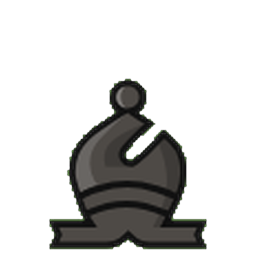
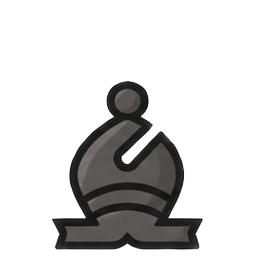
Soft pieces: sharper version from Dede's high-res image
Claude-Session: https://claude.ai/code/session_01GrAMtGcWzd7YwtEJJXTaDz

Changed region(s): [[0.1875, 0.3125, 0.8125, 1.0]]

diff --git a/board-theme.js b/board-theme.js
@@ -6,7 +6,7 @@
  */
 (() => {
   'use strict';
-  const KEY = 'chesslab.boardTheme', PKEY = 'chesslab.pieceSet', V = 11;
+  const KEY = 'chesslab.boardTheme', PKEY = 'chesslab.pieceSet', V = 13;
   const BASE = new URL('chess-lab/pieces/', document.currentScript ? document.currentScript.src : location.href).href;
   const THEMES = [
     { id: 'classic', name: 'Classic Green', l: '#eed5a4', d: '#355a31' },

diff --git a/chess-lab/index.html b/chess-lab/index.html
@@ -3,7 +3,7 @@
 <head>
   <meta charset="utf-8">
   <script src="../sync.js"></script>
-  <script src="../board-theme.js?v=8"></script>
+  <script src="../board-theme.js?v=10"></script>
   <meta name="viewport" content="width=device-width, initial-scale=1">
   <title>Chess Lab · Spar &amp; Review</title>
   <link rel="icon" href="data:,">

diff --git a/chess.html b/chess.html
@@ -3,7 +3,7 @@
 <head>
 <meta charset="utf-8">
 <script src="sync.js"></script>
-<script src="board-theme.js?v=8"></script>
+<script src="board-theme.js?v=10"></script>
 <meta name="viewport" content="width=device-width, initial-scale=1">
 <title>Daily Puzzle Drill</title>
 <link rel="preconnect" href="https://fonts.googleapis.com">
